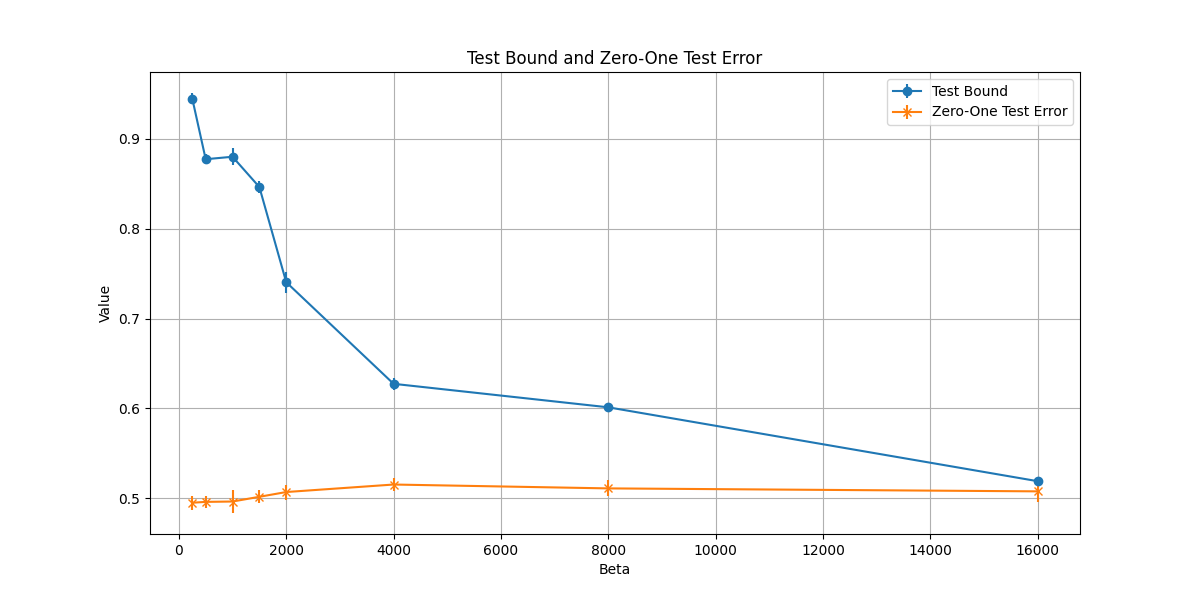
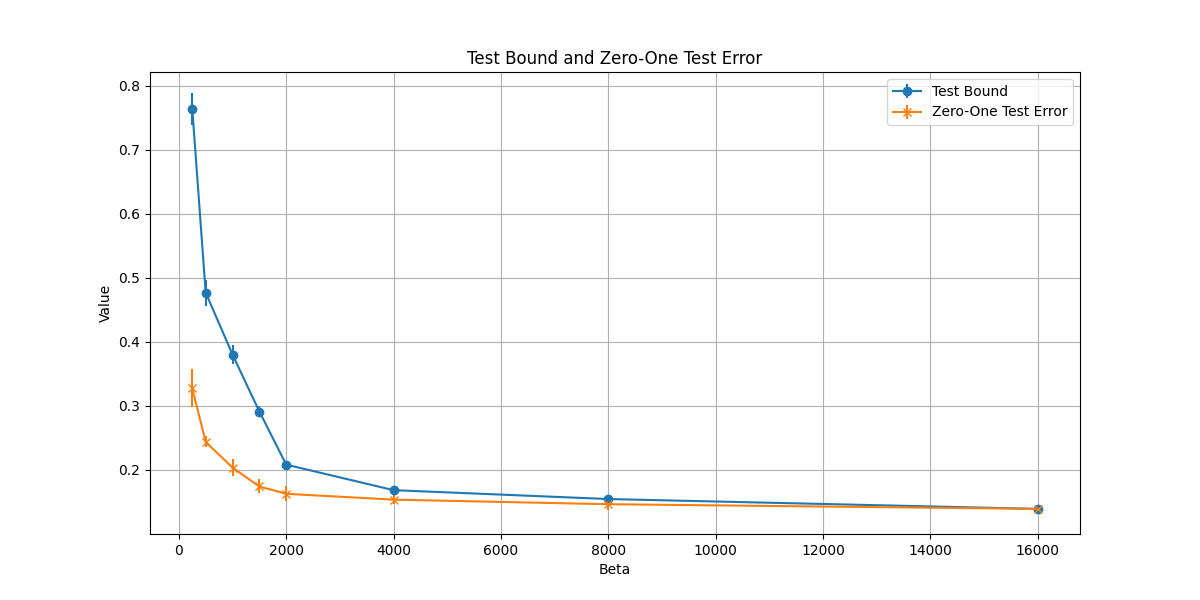
Remove demo scripts for checkpoint system, filename generation, and grouped classes; update CSV filenames and loss function parameters in main processing script

diff --git a/read_csv_to_lists.py b/read_csv_to_lists.py
@@ -73,12 +73,12 @@ def main():
 
     # TODO: THESE NAMES SHOULD BE CHANGED WITH THE TRUE NAMES OF THE FILES
     # # True label
-    test_csv_filename = "experiment_mnist_random_beta250-16000_rep10_20250821_054118_test_output_label_products_20250821_054118.csv"
-    train_csv_filename = "experiment_mnist_random_beta250-16000_rep10_20250821_054118_train_output_label_products_20250821_054118.csv"
+    test_csv_filename = "experiment_mnist_beta250-16000_rep10_20250822_000406_test_output_label_products_20250822_000406.csv"
+    train_csv_filename = "experiment_mnist_beta250-16000_rep10_20250822_000406_train_output_label_products_20250822_000406.csv"
 
     # Random label
-    # test_csv_filename = "experiment_mnist_random_beta250-4000_rep1_20250820_131024_test_output_label_products_20250820_131024.csv"
-    # train_csv_filename = "experiment_mnist_random_beta250-4000_rep1_20250820_131024_train_output_label_products_20250820_131024.csv"
+    # test_csv_filename = "experiment_mnist_random_beta250-16000_rep10_20250821_054118_test_output_label_products_20250821_054118.csv"
+    # train_csv_filename = "experiment_mnist_random_beta250-16000_rep10_20250821_054118_train_output_label_products_20250821_054118.csv"
 
     # TODO: HERE I AM ASSUMED THAT CSV FILES ARE SAVED IN A SUBDIRECTORY NAMED 'csv_outputs' BUT IF IT IS NOT THE CASE THAT EXTRA ARGUMENT COULD EASILY BE OMITTED
     train_csv_path = os.path.join(script_dir, "csv_outputs", train_csv_filename)
@@ -118,7 +118,7 @@ def main():
             train_BCE[repetition][beta] = BCE_criterion(torch.tensor(output).unsqueeze(-1), torch.ones_like(torch.tensor(output)))
             train_BCE[repetition][beta] = transform_bce_to_unit_interval(train_BCE[repetition][beta], l_max=4)
             # train_BCE2[beta] = sum(bce(val) for val in output) / len(output)
-            ramp_losses[repetition][beta] = sum(f(val, 5) for val in output) / len(output)
+            ramp_losses[repetition][beta] = sum(f(val, 3) for val in output) / len(output)
             zo_test_errors[repetition][beta] = ZO_criterion(torch.tensor(test_data[repetition][beta]).unsqueeze(-1), torch.ones_like(torch.tensor(test_data[repetition][beta]).unsqueeze(-1)))
 
     # Take average over repetitions of train_BCE

diff --git a/main.py b/main.py
@@ -25,7 +25,7 @@ from plot_utils import plot_beta_results
 TEST_MODE =  False
 
 # Random labels flag - set to True to use random labels instead of linear relationship
-USE_RANDOM_LABELS = True
+USE_RANDOM_LABELS = False
 
 # Dataset selection - set to 'mnist' for MNIST binary classification or 'synth' for synthetic
 DATASET_TYPE = 'mnist'  # 'synth' or 'mnist'
